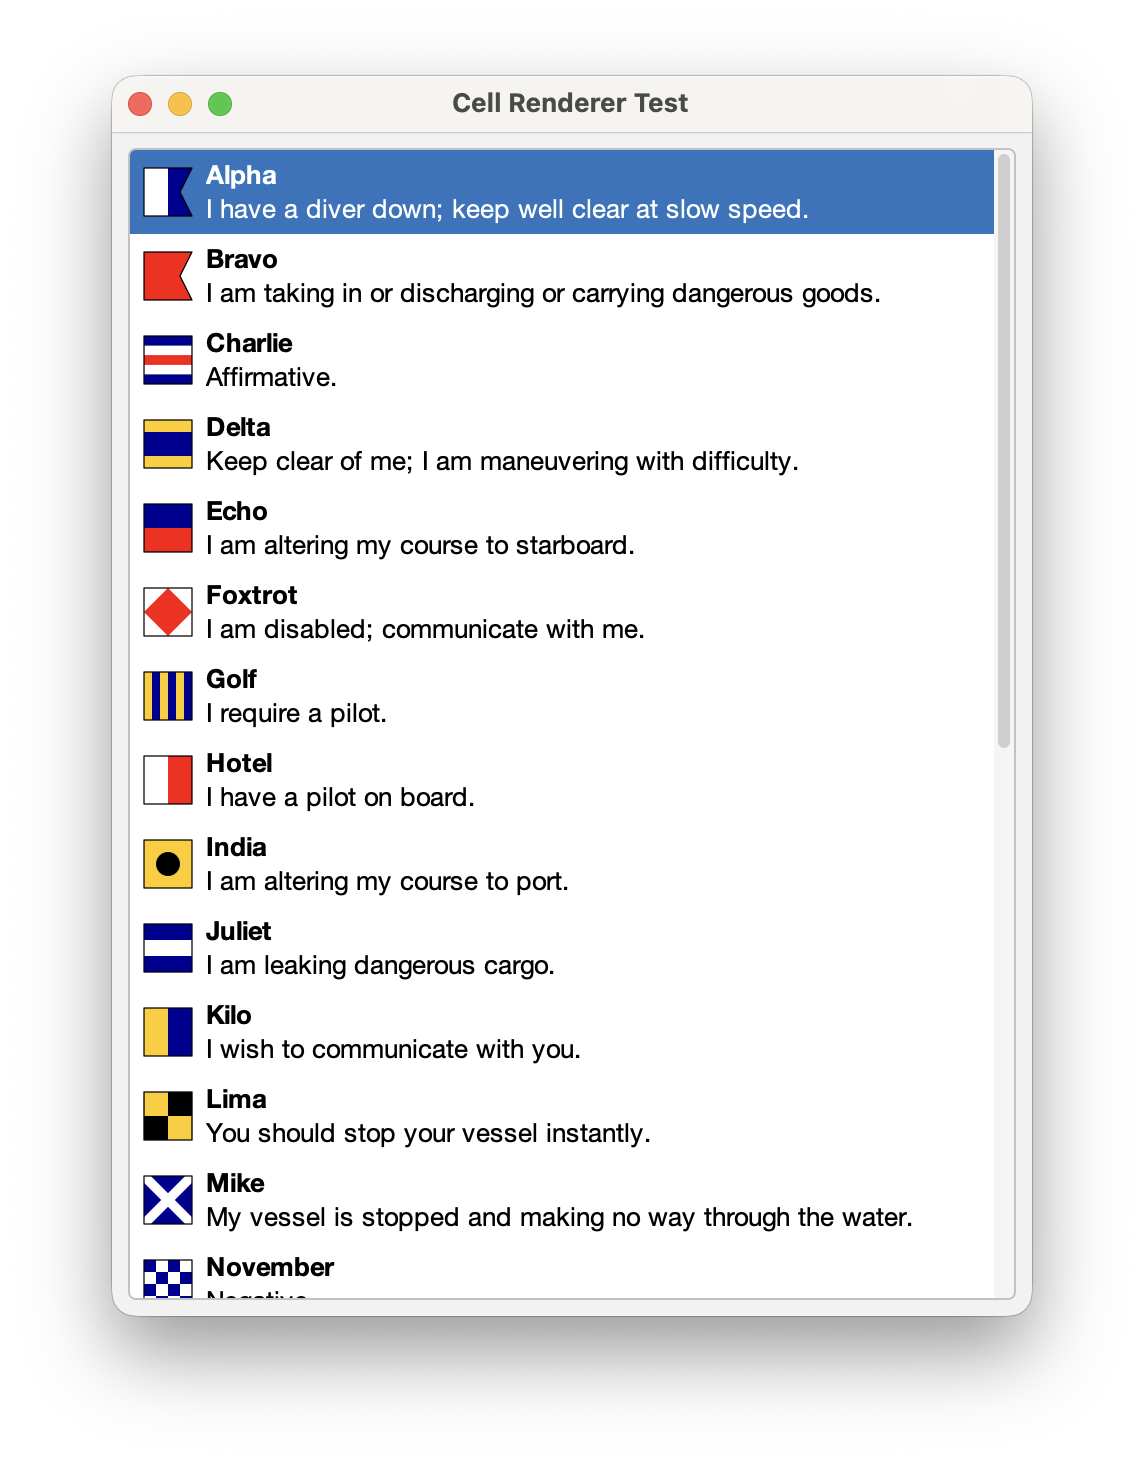
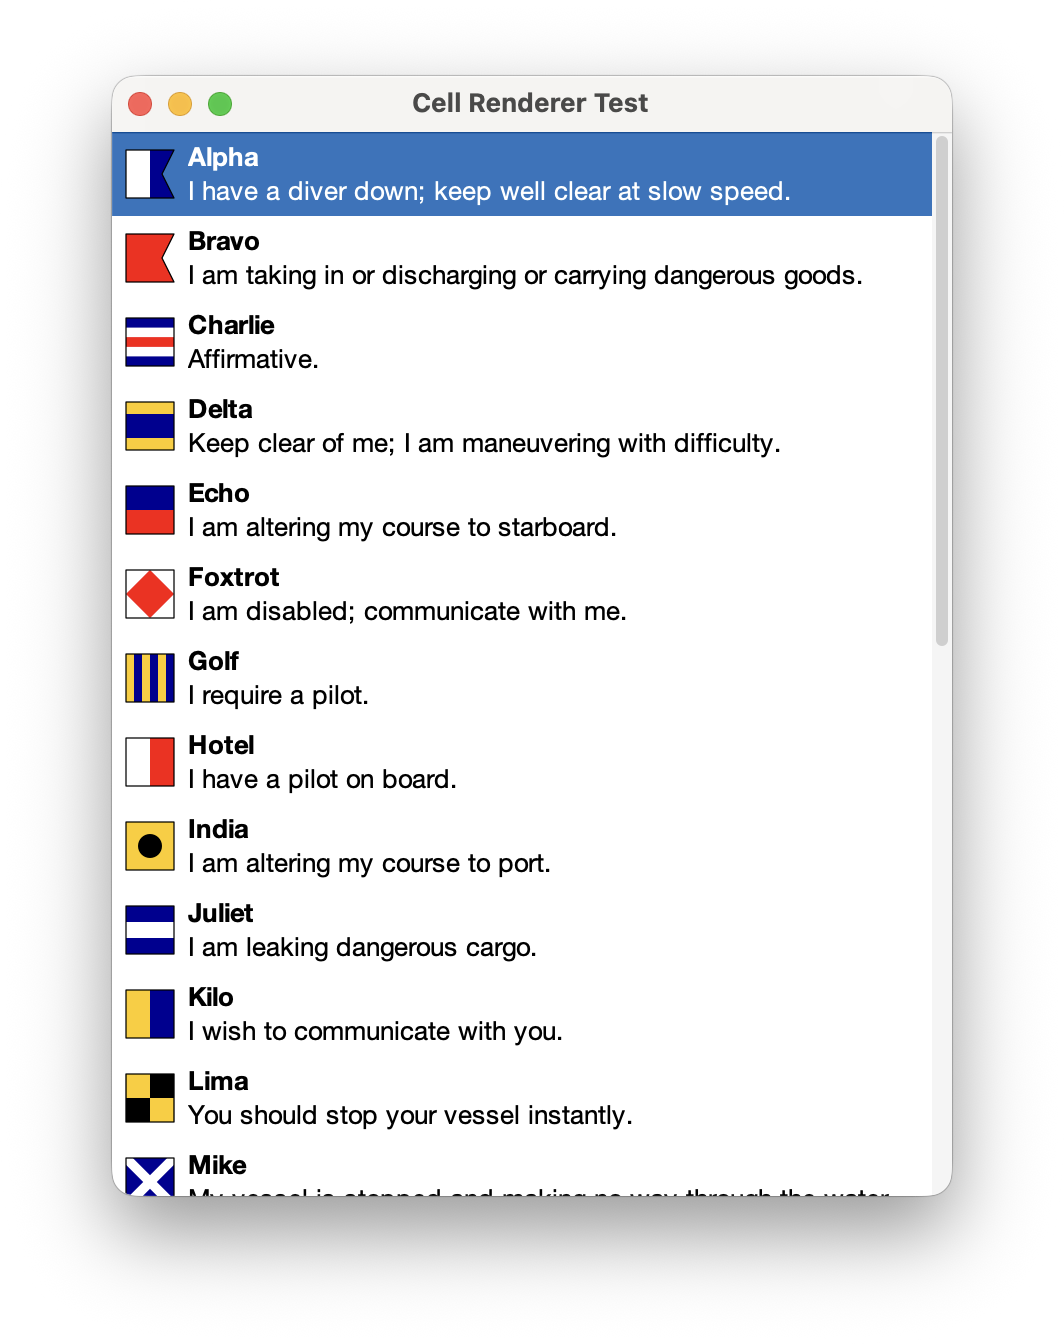
Update UILoader.

Changed region(s): [[0.093, 0.0625, 0.8994, 0.9062]]

diff --git a/sierra/src/main/java/org/httprpc/sierra/UILoader.java b/sierra/src/main/java/org/httprpc/sierra/UILoader.java
@@ -1950,42 +1950,46 @@ public class UILoader {
     }
 
     private static Border parseBorder(String value) {
-        var components = value.split(",");
-
-        var color = parseColor(components[0].trim());
-
-        if (components.length == 1) {
-            return new LineBorder(color);
+        if (value.equals("none")) {
+            return new EmptyBorder(0, 0, 0, 0);
         } else {
-            var thickness = Integer.parseInt(components[1].trim());
+            var components = value.split(",");
 
-            if (components.length == 2) {
-                return new LineBorder(color, thickness);
+            var color = parseColor(components[0].trim());
+
+            if (components.length == 1) {
+                return new LineBorder(color);
             } else {
-                var dashArray = switch(components[2].trim()) {
-                    case "solid" -> null;
-                    case "dashed" -> new float[]{thickness * 2.5f, thickness * 5.0f};
-                    case "dotted" -> new float[]{0.0f, thickness * 2.5f};
-                    default -> throw new IllegalArgumentException("Invalid border style.");
-                };
+                var thickness = Integer.parseInt(components[1].trim());
 
-                int cornerRadius;
-                if (components.length == 3) {
-                    cornerRadius = 0;
-                } else if (components.length == 4) {
-                    cornerRadius = Integer.parseInt(components[3].trim());
-
-                    if (cornerRadius < 0) {
-                        throw new IllegalArgumentException("Invalid corner radius.");
-                    }
+                if (components.length == 2) {
+                    return new LineBorder(color, thickness);
                 } else {
-                    throw new IllegalArgumentException("Invalid border.");
-                }
+                    var dashArray = switch(components[2].trim()) {
+                        case "solid" -> null;
+                        case "dashed" -> new float[]{thickness * 2.5f, thickness * 5.0f};
+                        case "dotted" -> new float[]{0.0f, thickness * 2.5f};
+                        default -> throw new IllegalArgumentException("Invalid border style.");
+                    };
 
-                return new RoundedLineBorder(color, new BasicStroke(thickness,
-                    BasicStroke.CAP_ROUND,
-                    BasicStroke.JOIN_ROUND,
-                    0.0f, dashArray, 0.0f), cornerRadius);
+                    int cornerRadius;
+                    if (components.length == 3) {
+                        cornerRadius = 0;
+                    } else if (components.length == 4) {
+                        cornerRadius = Integer.parseInt(components[3].trim());
+
+                        if (cornerRadius < 0) {
+                            throw new IllegalArgumentException("Invalid corner radius.");
+                        }
+                    } else {
+                        throw new IllegalArgumentException("Invalid border.");
+                    }
+
+                    return new RoundedLineBorder(color, new BasicStroke(thickness,
+                        BasicStroke.CAP_ROUND,
+                        BasicStroke.JOIN_ROUND,
+                        0.0f, dashArray, 0.0f), cornerRadius);
+                }
             }
         }
     }

diff --git a/sierra-test/src/main/java/org/httprpc/sierra/test/FormTest.java b/sierra-test/src/main/java/org/httprpc/sierra/test/FormTest.java
@@ -22,7 +22,6 @@ import org.httprpc.sierra.UILoader;
 
 import javax.swing.JFormattedTextField;
 import javax.swing.JFrame;
-import javax.swing.JScrollPane;
 import javax.swing.SwingUtilities;
 import javax.swing.text.DefaultFormatterFactory;
 import javax.swing.text.NumberFormatter;
@@ -49,11 +48,7 @@ public class FormTest extends JFrame implements Runnable {
 
     @Override
     public void run() {
-        var scrollPane = new JScrollPane(UILoader.load(this, "FormTest.xml", resourceBundle));
-
-        scrollPane.setBorder(null);
-
-        setContentPane(scrollPane);
+        setContentPane(UILoader.load(this, "FormTest.xml", resourceBundle));
 
         var numberFormat = NumberFormat.getIntegerInstance();
 

diff --git a/sierra-test/src/main/java/org/httprpc/sierra/test/CellRendererTest.java b/sierra-test/src/main/java/org/httprpc/sierra/test/CellRendererTest.java
@@ -76,7 +76,7 @@ public class CellRendererTest extends JFrame implements Runnable {
 
         flagList.setCellRenderer(new FlagCellRenderer());
 
-        setSize(460, 620);
+        setSize(420, 560);
         setVisible(true);
     }
 

diff --git a/README.md b/README.md
@@ -233,6 +233,14 @@ Border thickness, style, and corner radius can be specified as shown below:
 
 The default border thickness is 1. Style options include "solid" (the default), "dashed", and "dotted". The default corner radius is 0.
 
+A value of "none" indicates that a component should not have a border:
+
+```xml
+<scroll-pane name="scrollPane" border="none">
+    ...
+</scroll-pane>
+```
+
 Padding values for multiple sides can be specified in _top_, _left_, _bottom_, _right_ order:
 
 ```
@@ -379,7 +387,7 @@ FlatLaf style and [style class](https://www.formdev.com/flatlaf/typography/) val
 </row-panel>
 ```
 
-<img src="README/cell-renderer.png" width="572px"/>
+<img src="README/cell-renderer.png" width="532px"/>
 
 FlatLaf text styles are also accessible via the "font" property:
 
